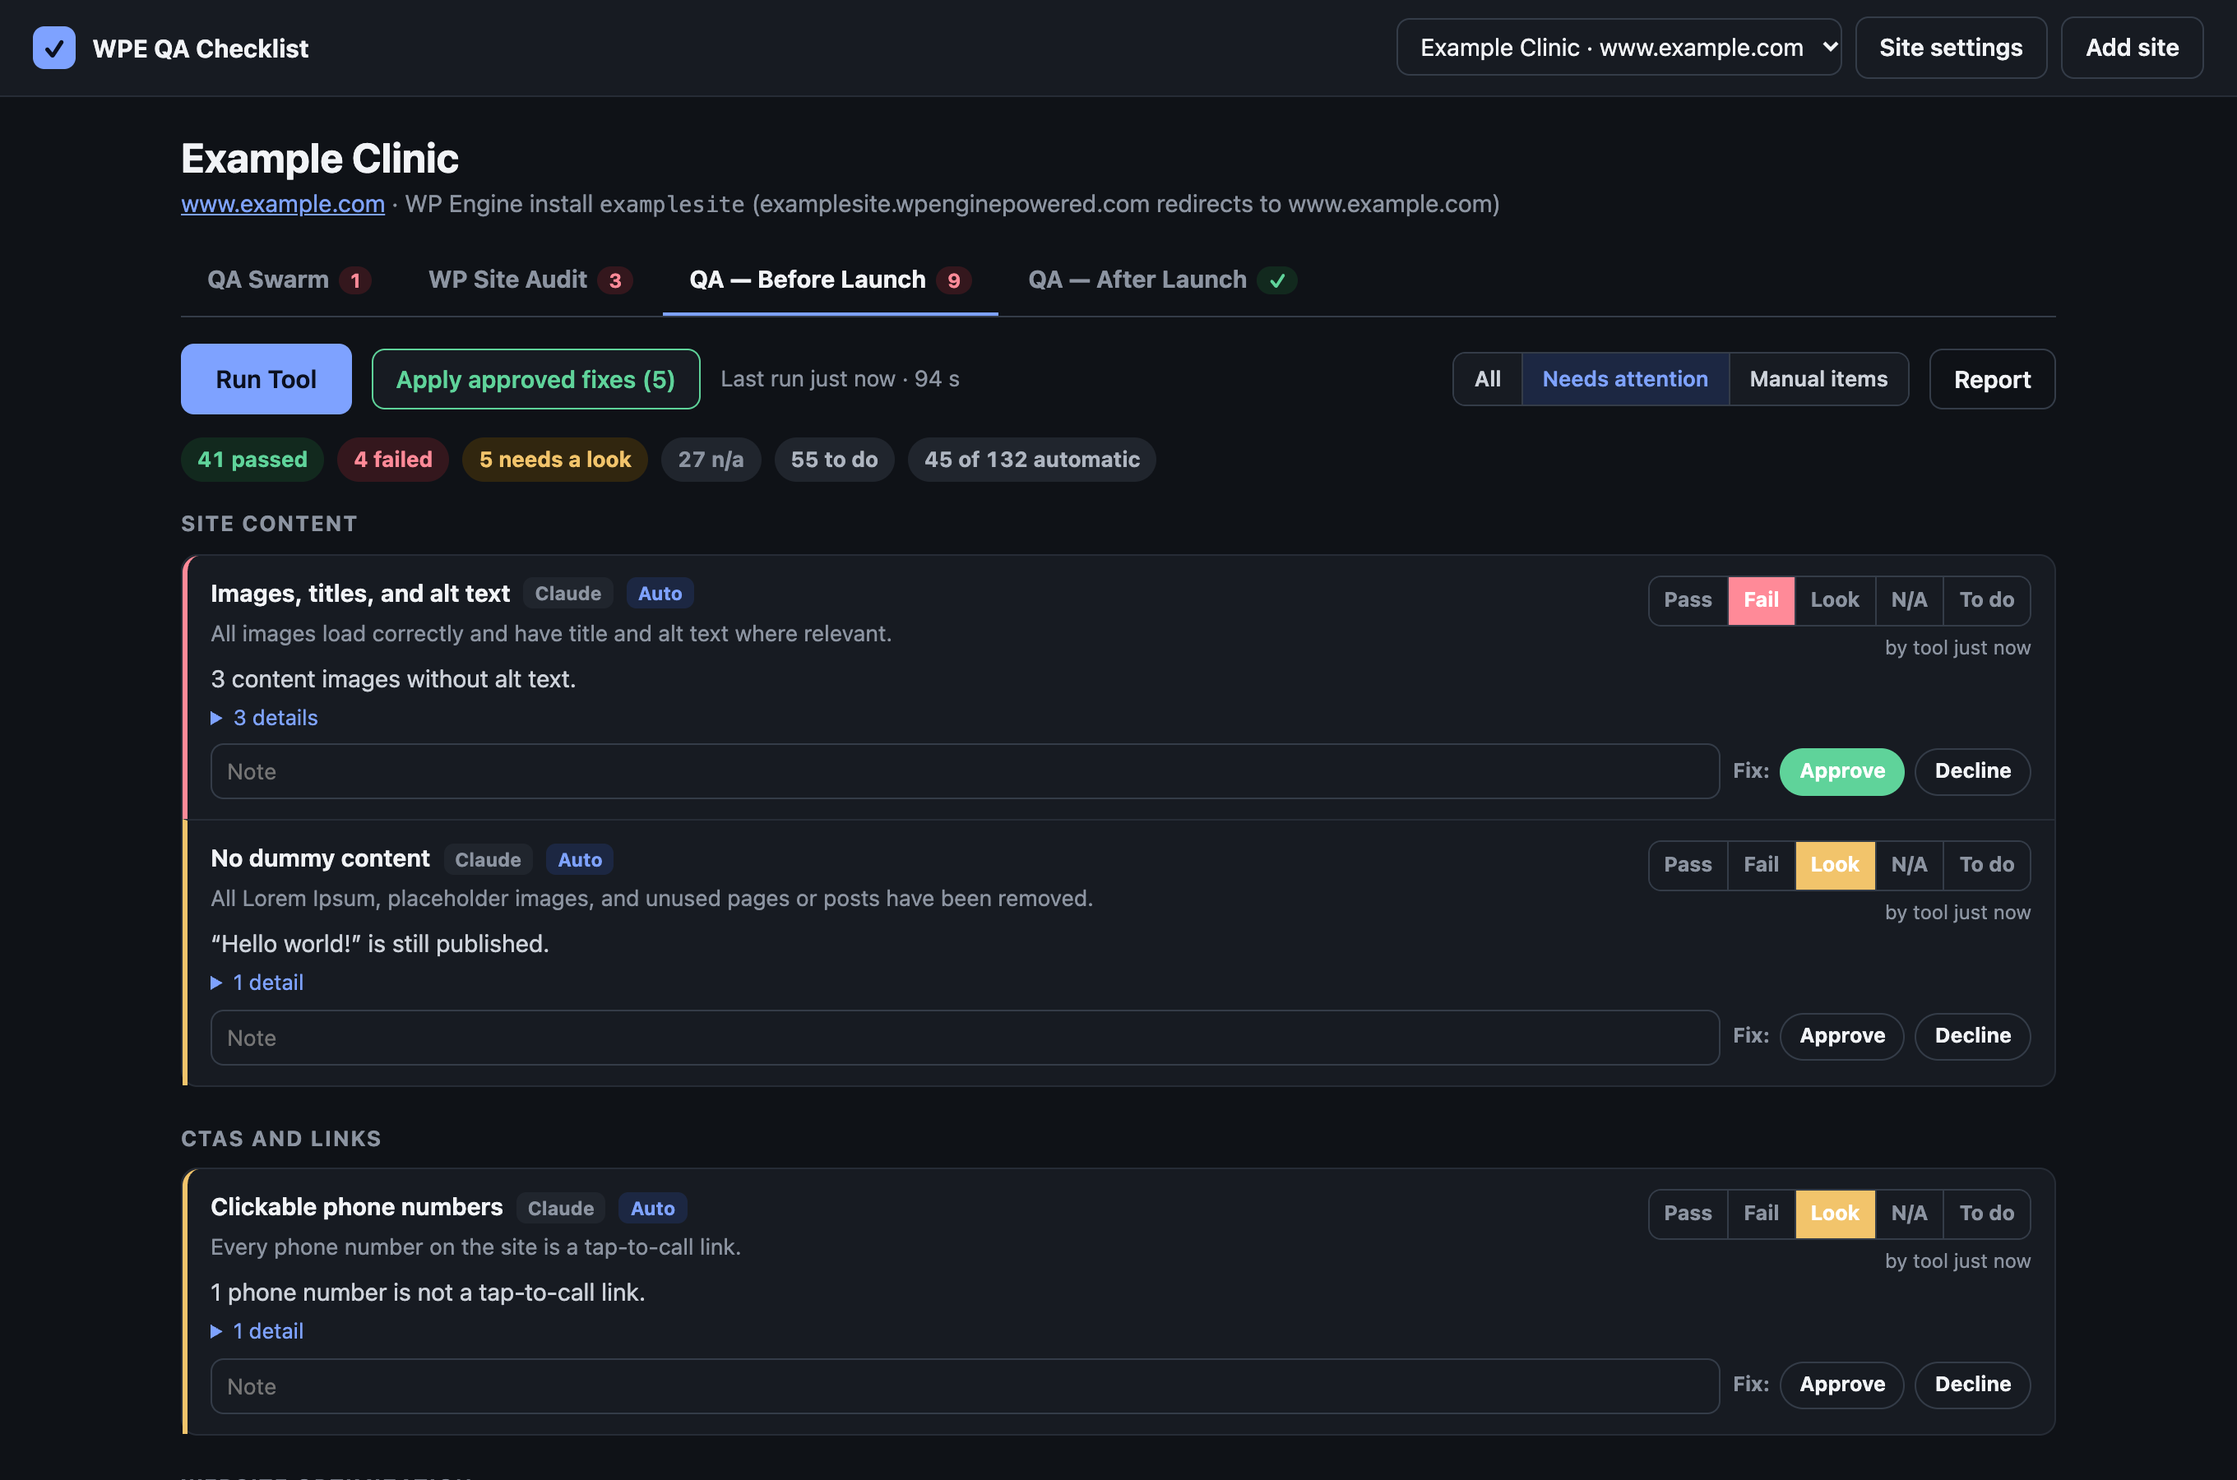
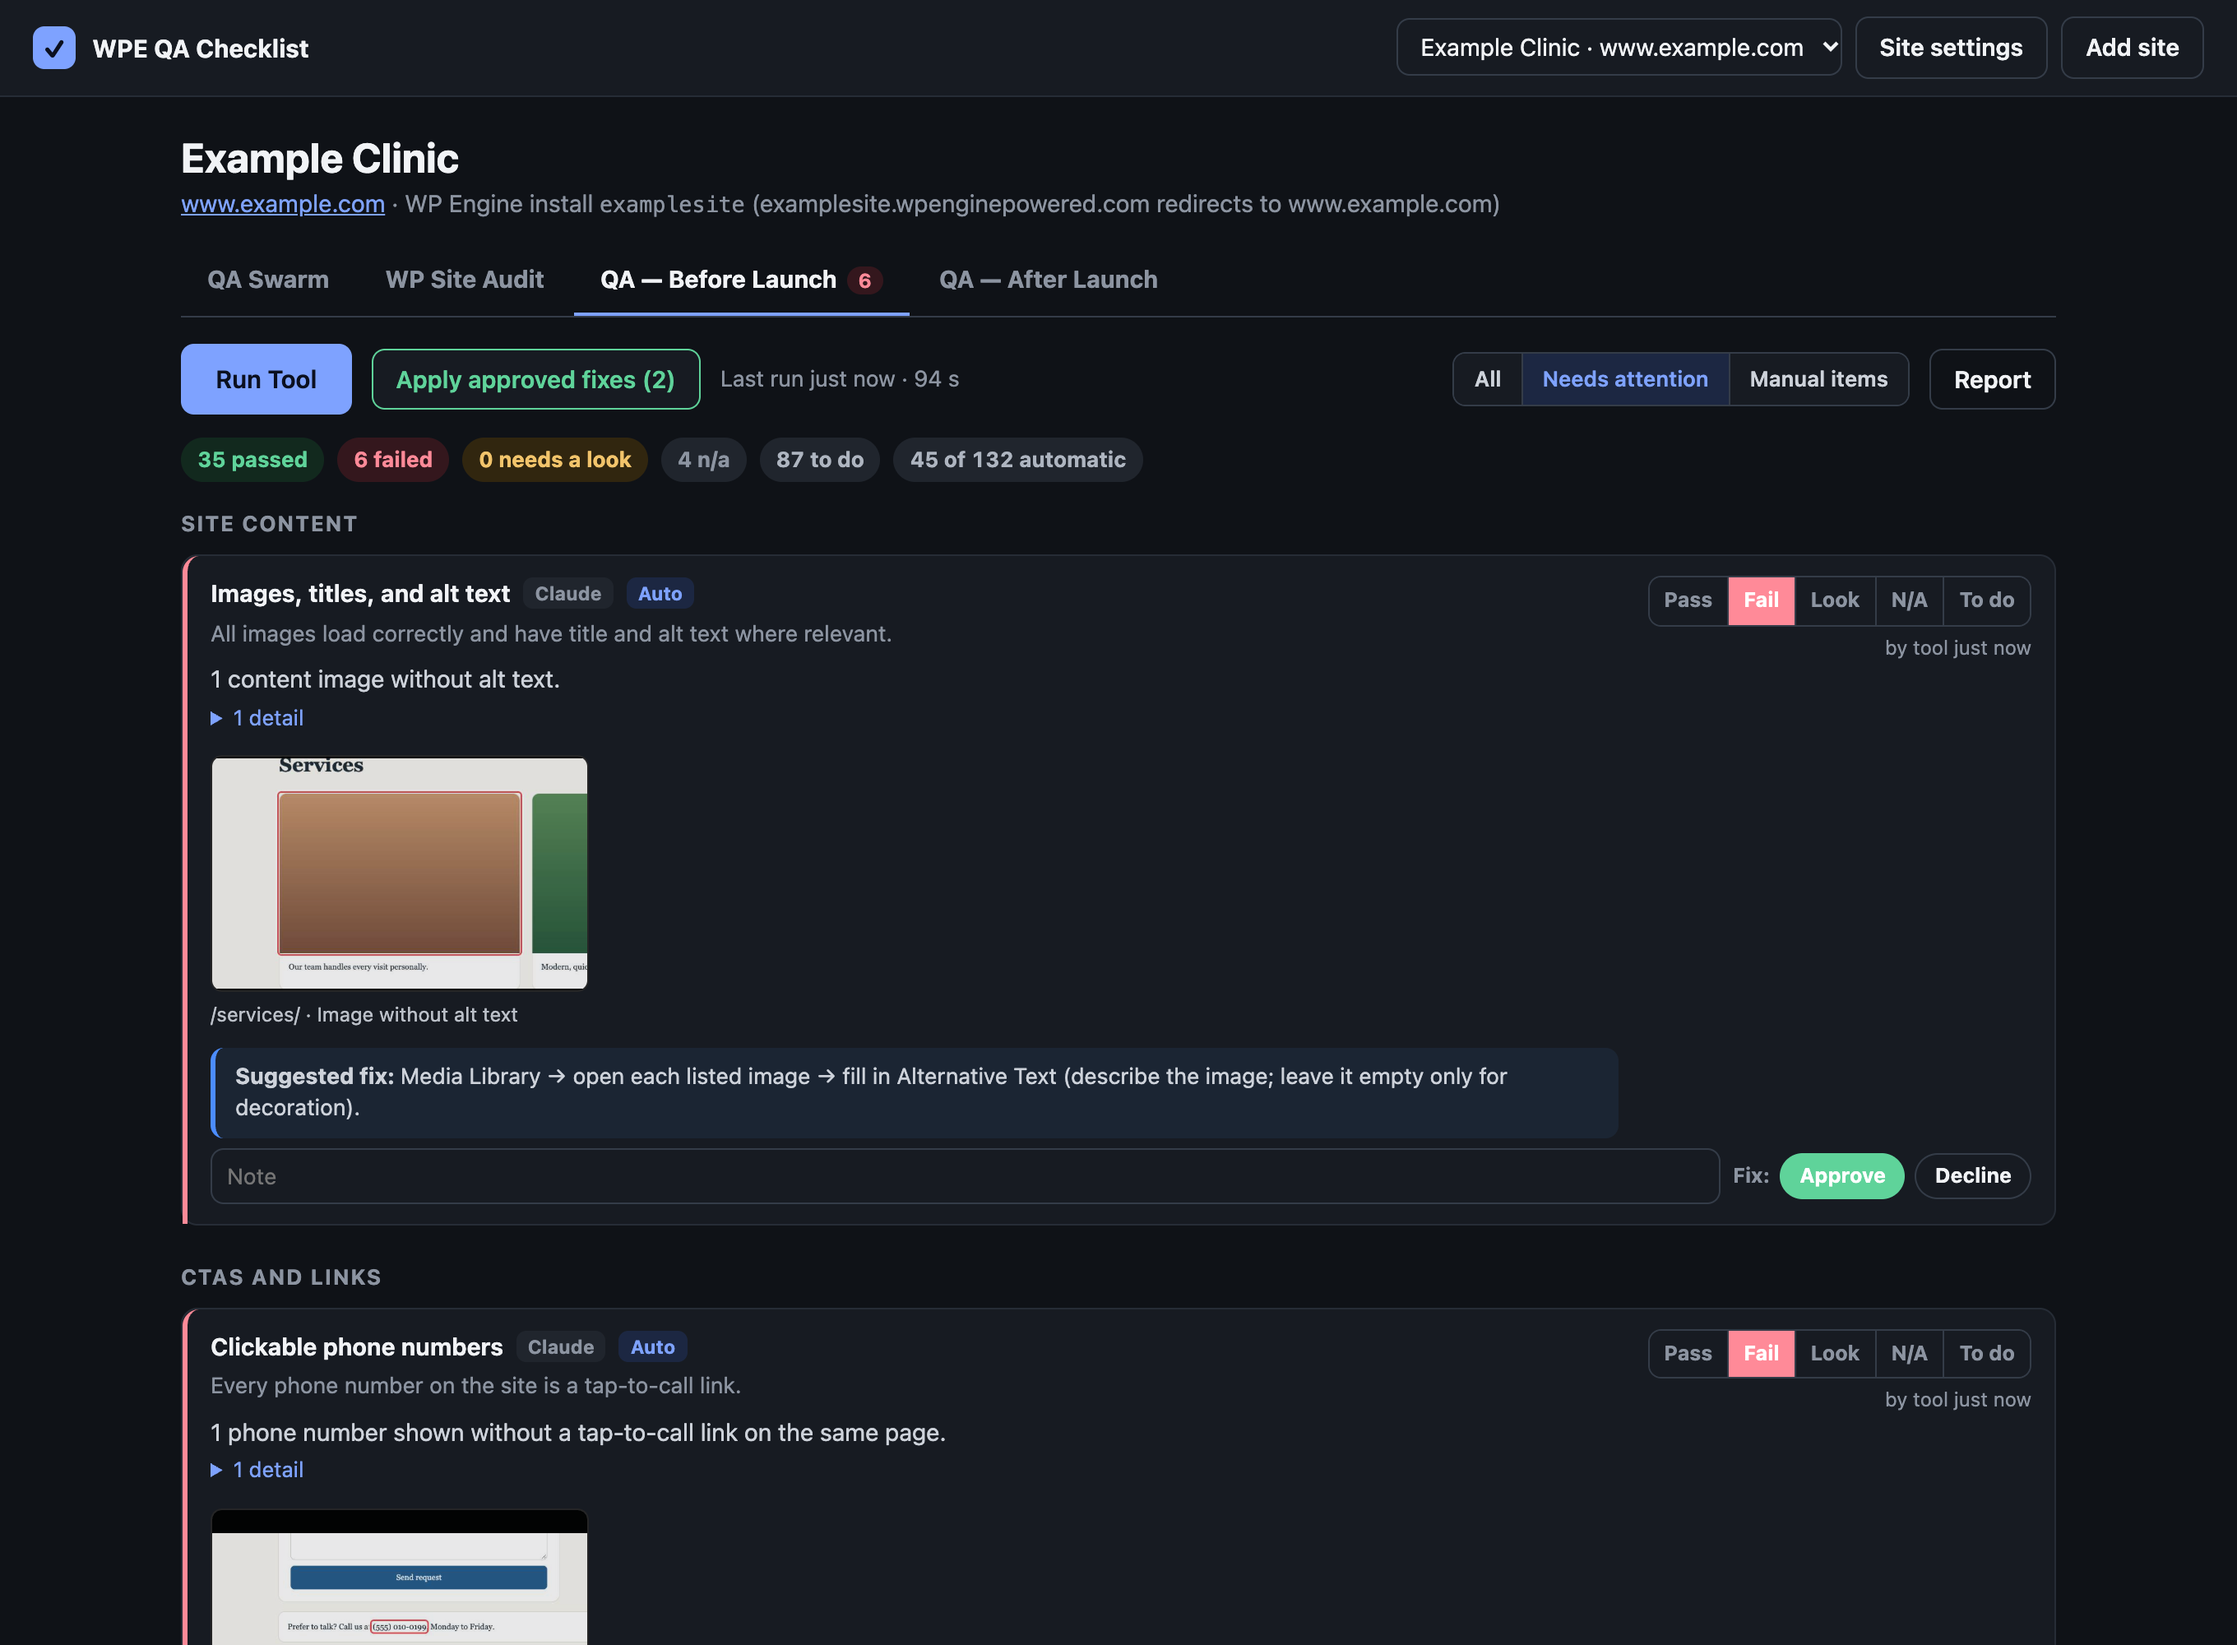
README screenshots show suggested fixes and item screenshots; frame only the matched text
- Phone numbers and text are framed exactly (a text range), not their container
- Cropped screenshots show whole in the thumbnail; phone page views crop from the top
- New README screenshots from the example.com demo (thumbnails captured by
  evidence.mjs from a small demo page)

diff --git a/public/app.js b/public/app.js
@@ -94,7 +94,7 @@ function itemRow(it) {
       s.tool?.summary ? el('p', { class: 'item-summary' }, linkify(s.tool.summary)) : null,
       details,
       s.tool?.shots?.length && ['fail', 'warn'].includes(s.tool.status) ? el('div', { class: 'shots' }, s.tool.shots.map(sh => el('a', { class: 'shot', href: sh.file, target: '_blank', rel: 'noopener', title: `${sh.page} · ${sh.label} (opens full size)` },
-        el('img', { src: sh.file, alt: `${sh.label} on ${sh.page}`, loading: 'lazy' }),
+        el('img', { src: sh.file, alt: `${sh.label} on ${sh.page}`, loading: 'lazy', 'data-kind': sh.kind || 'crop' }),
         el('span', { text: `${sh.page} · ${sh.label}${sh.found ? '' : ' (not pinpointed; page view)'}` })))) : null,
       s.tool?.suggestion && ['fail', 'warn'].includes(s.tool.status) ? el('p', { class: 'item-suggest' }, el('strong', { text: 'Suggested fix: ' }), s.tool.suggestion.text, s.tool.suggestion.auto ? el('span', { class: 'chip auto', text: 'App can fix' }) : null) : null),
     el('div', { class: 'item-side' }, seg, src, s.fix ? el('span', { class: `fixstate fs-${s.fix.state}`, title: s.fix.reason || s.fix.action || '', text: fixLabel(s.fix) }) : null),

diff --git a/public/app.css b/public/app.css
@@ -150,3 +150,4 @@ dialog label small { font-weight: 400; color: var(--faint); }
 .shot{display:flex;flex-direction:column;gap:5px;width:230px;max-width:100%;color:inherit;text-decoration:none;font-size:12px;opacity:.9}
 .shot:hover{opacity:1}.shot:hover img{border-color:#4c8dff}
 .shot img{width:100%;aspect-ratio:16/10;object-fit:cover;object-position:top;border-radius:7px;border:1px solid rgba(127,127,127,.3);background:#000}
+.shot img[data-kind="crop"]{object-fit:contain;object-position:center}

diff --git a/README.md b/README.md
@@ -25,7 +25,9 @@ Markdown summary of the tab for pasting into the sheet, a ticket or a message.
 Elementor and YOOtheme sections are kept but marked N/A automatically unless the site uses them.
 
 
-![QA — Before Launch, showing items that need attention with Approve / Decline](docs/qa-before-launch.png)
+![QA — Before Launch, showing items that need attention with screenshots, a suggested fix, and Approve / Decline](docs/qa-before-launch.png)
+
+![One item up close: the phone number framed in red on the page, and the suggested fix](docs/qa-item-detail.png)
 
 ![Apply approved fixes: backup first, the automatic fixes, and what goes to Claude or a developer](docs/qa-apply-fixes.png)
 
